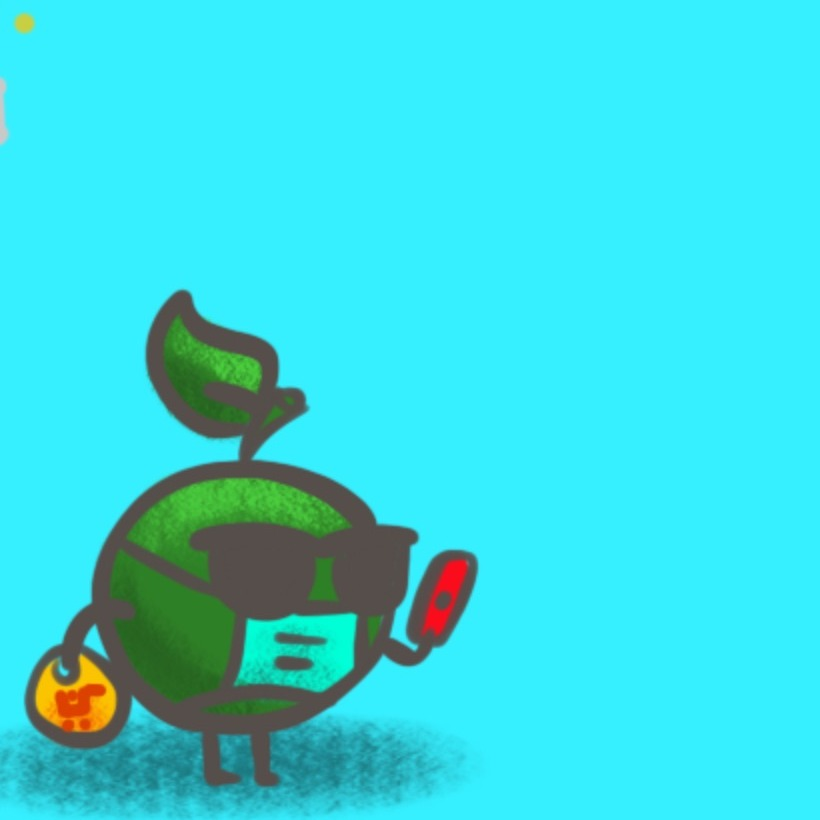
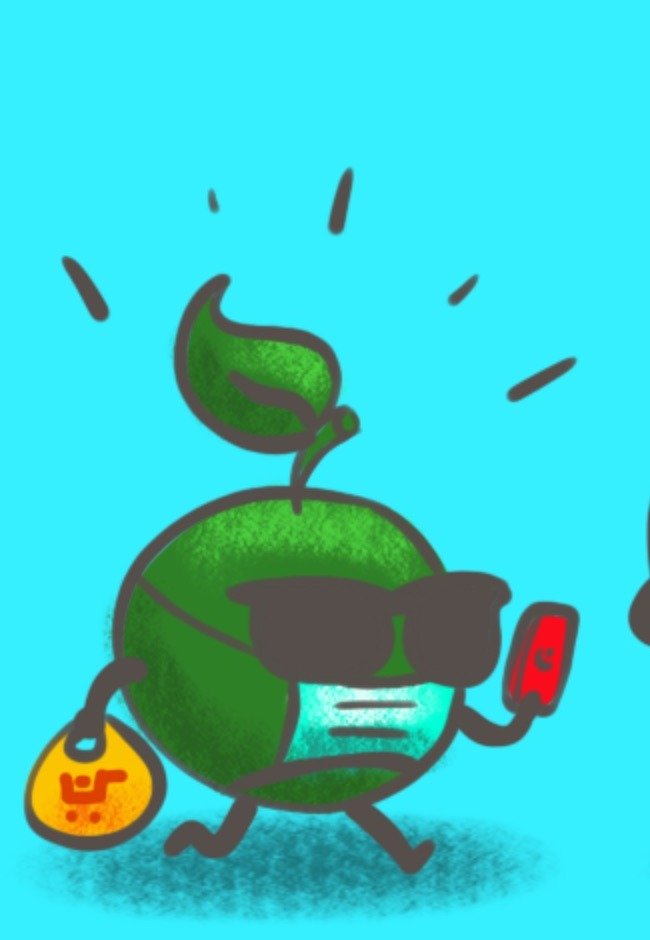
Use full scene crop for Limón Agrio

diff --git a/personajes.html b/personajes.html
@@ -14,7 +14,7 @@
   <section class="character-group section-wrap" id="protagonistas" aria-labelledby="protagonistas-title"><div class="character-group-heading"><h2 id="protagonistas-title"><span data-es="Los protagonistas" data-en="The stars">Los protagonistas</span></h2><p><span data-es="Los que llevan el peso de las historias… y de sus ocurrencias." data-en="The couple at the center of every story and every mishap.">Los que llevan el peso de las historias… y de sus ocurrencias.</span></p></div><div class="cast-grid cast-grid-lead"><article class="cast-card cast-featured"><div class="cast-portrait"><img loading="lazy" src="assets/mandy-mandarinita-scene.webp?v=20261101" width="435" height="650" alt="Mandy Mandarinita en una escena de Salón de la Es-pera"></div><div class="cast-copy"><p class="work-meta"><span data-es="La que no deja pasar una" data-en="Nothing gets past her">La que no deja pasar una</span></p><h3><span data-es="Mandy Mandarinita" data-en="Mandy Mandarinita">Mandy Mandarinita</span></h3><p><span data-es="Responsable, observadora y con una memoria que parece no tener límite. Mandy se fija hasta en el detalle más pequeño, tiene todo calculado y rara vez se le escapa algo. Especialmente cuando Mando cree que ya se le olvidó." data-en="Responsible, sharp-eyed, and equipped with a seemingly endless memory. Mandy catches every little detail, plans ahead, and rarely misses a thing. Especially when Mando thinks she's forgotten.">Responsable, observadora y con una memoria que parece no tener límite. Mandy se fija hasta en el detalle más pequeño, tiene todo calculado y rara vez se le escapa algo. Especialmente cuando Mando cree que ya se le olvidó.</span></p></div></article>
 <article class="cast-card cast-featured"><div class="cast-portrait"><img loading="lazy" src="assets/mando-mandarinita-scene.webp?v=20261101" width="520" height="685" alt="Mando Mandarinita en una escena de Salón de la Es-pera"></div><div class="cast-copy"><p class="work-meta"><span data-es="El creativo de la casa" data-en="The creative one at home">El creativo de la casa</span></p><h3><span data-es="Mando Mandarinita" data-en="Mando Mandarinita">Mando Mandarinita</span></h3><p><span data-es="Esposo de Mandy, creativo, divertido y un poquito olvidadizo. Siempre tiene una ocurrencia bajo la manga, aunque a veces pierde la noción del tiempo… o de dónde dejó la manga. Las situaciones más disparatadas parecen encontrarlo solitas." data-en="Mandy's husband is creative, funny, and a little forgetful. He's always got an idea up his sleeve—even if he forgets where he left the sleeve. The strangest situations seem to find him all on their own.">Esposo de Mandy, creativo, divertido y un poquito olvidadizo. Siempre tiene una ocurrencia bajo la manga, aunque a veces pierde la noción del tiempo… o de dónde dejó la manga. Las situaciones más disparatadas parecen encontrarlo solitas.</span></p></div></article></div></section>
 <section class="character-group section-wrap" id="secundarios" aria-labelledby="secundarios-title"><div class="character-group-heading"><h2 id="secundarios-title"><span data-es="Los secundarios" data-en="The supporting cast">Los secundarios</span></h2><p><span data-es="Los amigos que siempre llegan a ponerle más sabor al asunto." data-en="The friends who bring even more flavor to the mix.">Los amigos que siempre llegan a ponerle más sabor al asunto.</span></p></div><div class="cast-grid cast-grid-support"><article class="cast-card cast-support cast-has-image"><div class="cast-portrait"><img loading="lazy" src="assets/greg-el-zanahorio.jpg?v=20261101-scenes" width="998" height="998" alt="Greg el Zanahorio en una escena de Mandarinita"></div><div class="cast-copy"><p class="work-meta"><span data-es="El cómplice intelectual" data-en="The brainy accomplice">El cómplice intelectual</span></p><h3><span data-es="Greg el Zanahorio" data-en="Greg the Carrot">Greg el Zanahorio</span></h3><p><span data-es="Amigo inseparable de Mando y cerebro de muchas de sus ocurrencias. Hoy es científico, mañana inventor y pasado mañana doctor. Lo que haga falta, siempre que haya una buena idea… o una locura por comprobar." data-en="Mando's close friend and the brains behind many of their adventures. Scientist today, inventor tomorrow, doctor the day after. Whatever the job calls for—as long as there's a great idea or a wild theory to test.">Amigo inseparable de Mando y cerebro de muchas de sus ocurrencias. Hoy es científico, mañana inventor y pasado mañana doctor. Lo que haga falta, siempre que haya una buena idea… o una locura por comprobar.</span></p></div></article>
-<article class="cast-card cast-support cast-has-image"><div class="cast-portrait"><img loading="lazy" src="assets/limon-agrio.jpg?v=20261101-scenes" width="820" height="820" alt="Limón Agrio en una escena de Mandarinita"></div><div class="cast-copy"><p class="work-meta"><span data-es="El inconforme profesional" data-en="The professional complainer">El inconforme profesional</span></p><h3><span data-es="Limón Agrio" data-en="Sour Lemon">Limón Agrio</span></h3><p><span data-es="Para él, todo está mal. Y si algo está bien, seguro que podría estar mejor. Malhumorado, negativo y difícil de complacer, Limón Agrio siempre encuentra el lado amargo de cualquier situación." data-en="Everything is wrong in his eyes. And if something goes right, it could still be better. Grumpy, pessimistic, and impossible to please, he always finds the sour side of every situation.">Para él, todo está mal. Y si algo está bien, seguro que podría estar mejor. Malhumorado, negativo y difícil de complacer, Limón Agrio siempre encuentra el lado amargo de cualquier situación.</span></p></div></article>
+<article class="cast-card cast-support cast-has-image"><div class="cast-portrait"><img loading="lazy" src="assets/limon-agrio.jpg?v=20261101-scenes-2" width="820" height="820" alt="Limón Agrio en una escena de Mandarinita"></div><div class="cast-copy"><p class="work-meta"><span data-es="El inconforme profesional" data-en="The professional complainer">El inconforme profesional</span></p><h3><span data-es="Limón Agrio" data-en="Sour Lemon">Limón Agrio</span></h3><p><span data-es="Para él, todo está mal. Y si algo está bien, seguro que podría estar mejor. Malhumorado, negativo y difícil de complacer, Limón Agrio siempre encuentra el lado amargo de cualquier situación." data-en="Everything is wrong in his eyes. And if something goes right, it could still be better. Grumpy, pessimistic, and impossible to please, he always finds the sour side of every situation.">Para él, todo está mal. Y si algo está bien, seguro que podría estar mejor. Malhumorado, negativo y difícil de complacer, Limón Agrio siempre encuentra el lado amargo de cualquier situación.</span></p></div></article>
 <article class="cast-card cast-support cast-no-image"><div class="cast-copy"><p class="work-meta"><span data-es="El despistado adorable" data-en="Lovably clueless">El despistado adorable</span></p><h3><span data-es="Aguacatelo" data-en="Aguacatelo">Aguacatelo</span></h3><p><span data-es="No es precisamente el galán del grupo, ni el primero en entender lo que está pasando. Pero con su peculiar apariencia y su manera distraída de ver el mundo, es imposible no cogerle cariño." data-en="Not exactly the handsome one in the group—or the first to catch on. But with his peculiar looks and absent-minded way of seeing the world, it's impossible not to grow fond of him.">No es precisamente el galán del grupo, ni el primero en entender lo que está pasando. Pero con su peculiar apariencia y su manera distraída de ver el mundo, es imposible no cogerle cariño.</span></p></div></article></div></section>
 <section class="character-group section-wrap" id="invitados" aria-labelledby="invitados-title"><div class="character-group-heading"><h2 id="invitados-title"><span data-es="Personajes invitados" data-en="Guest characters">Personajes invitados</span></h2><p><span data-es="Aparecen de vez en cuando, pero dejan su marca." data-en="They may drop by briefly, but they always leave an impression.">Aparecen de vez en cuando, pero dejan su marca.</span></p></div><div class="cast-grid cast-grid-guest"><article class="cast-card cast-guest cast-no-image"><div class="cast-copy"><p class="work-meta"><span data-es="El viejito quejumbroso" data-en="The grumpy old-timer">El viejito quejumbroso</span></p><h3><span data-es="Don Guineo" data-en="Don Guineo">Don Guineo</span></h3><p><span data-es="Tiene años de experiencia… y quejas acumuladas para rato." data-en="Years of experience… and enough complaints to last a lifetime.">Tiene años de experiencia… y quejas acumuladas para rato.</span></p></div></article>
 <article class="cast-card cast-guest cast-no-image"><div class="cast-copy"><p class="work-meta"><span data-es="El aparecido" data-en="The unexpected guest">El aparecido</span></p><h3><span data-es="Don Manzanillo" data-en="Don Manzanillo">Don Manzanillo</span></h3><p><span data-es="Nadie lo invitó, nadie lo esperaba, pero ahí está. ¡Y como si nada!" data-en="Nobody invited him, nobody expected him, but here he is. Acting like he owns the place!">Nadie lo invitó, nadie lo esperaba, pero ahí está. ¡Y como si nada!</span></p></div></article>
